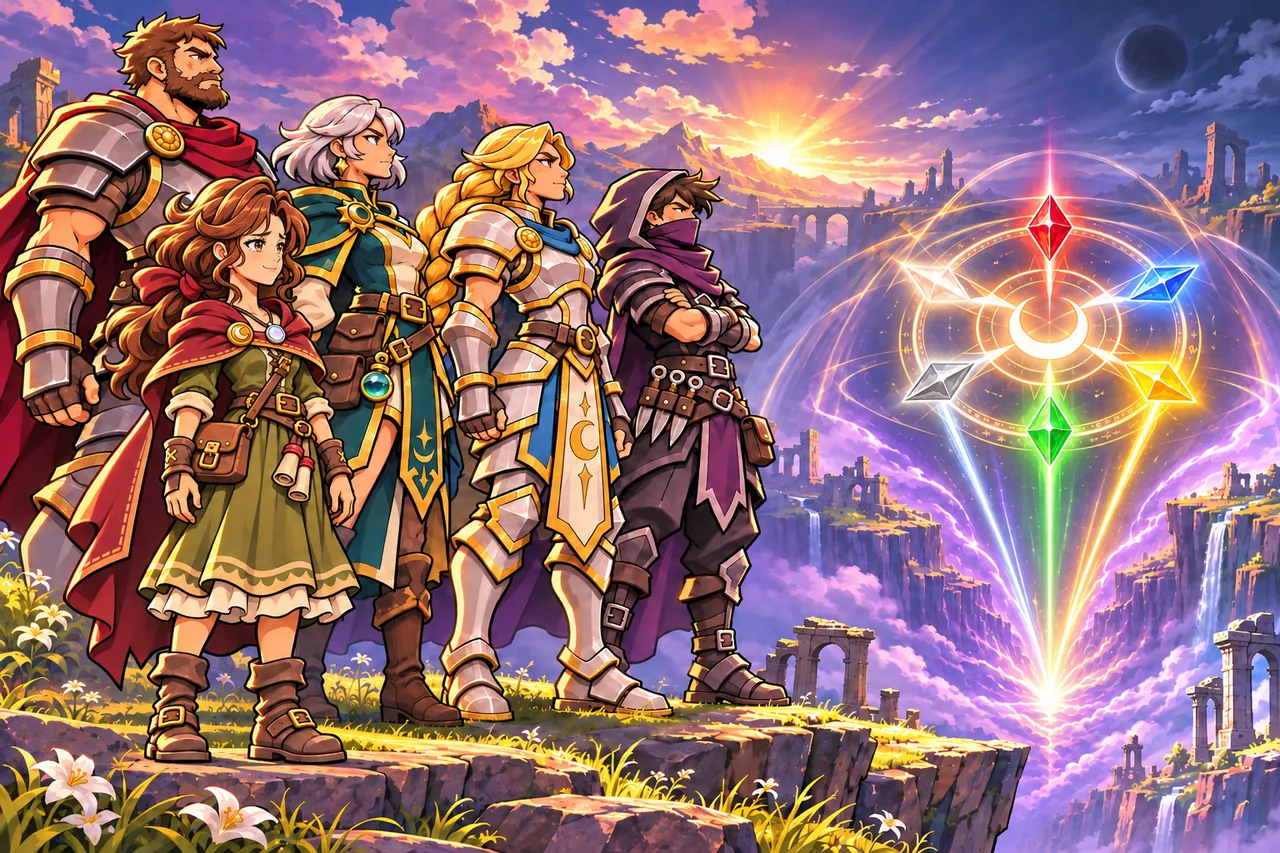
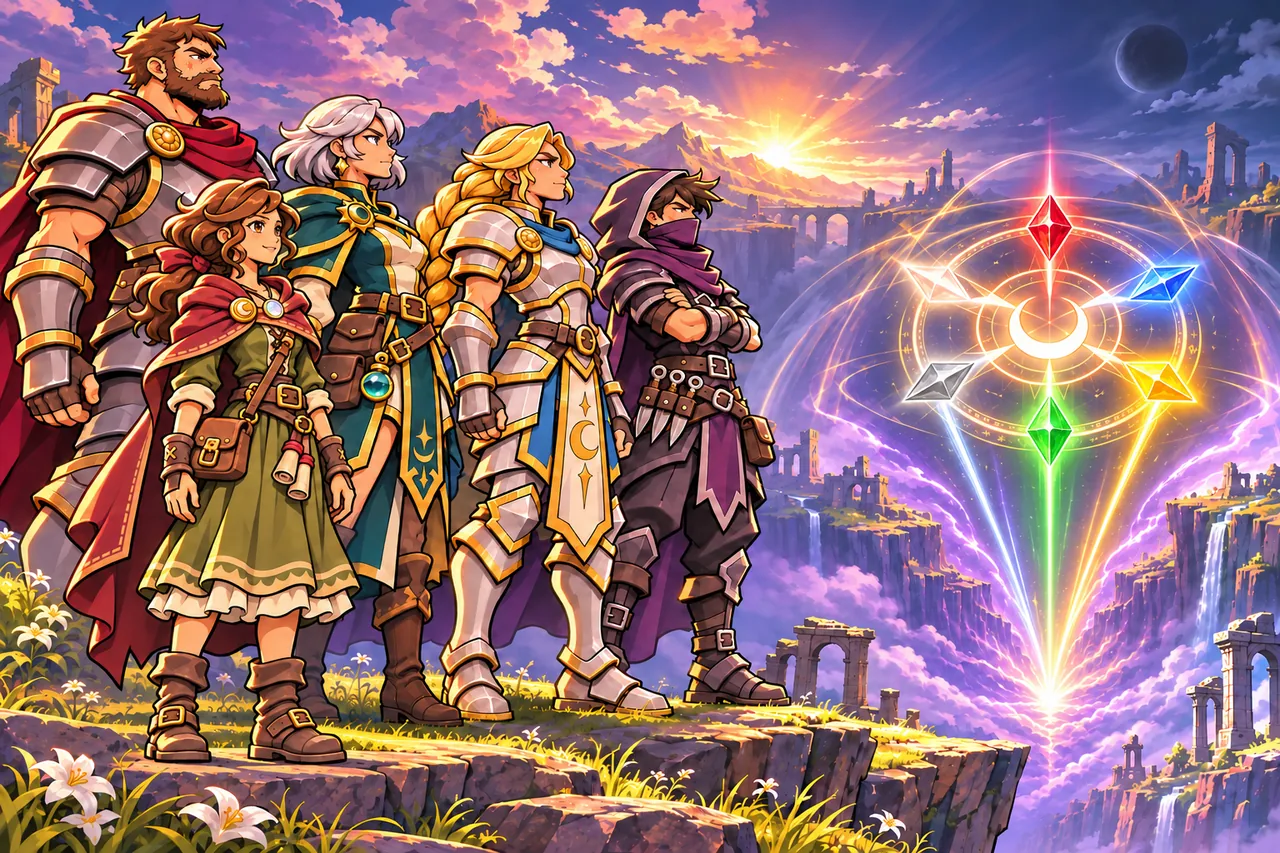
블랙문: 리세 비율 다듬은 이야기 그림 3장(봉인 엔딩·진 엔딩·진 엔딩 마지막)

diff --git a/prototype/seventhmoon/index.html b/prototype/seventhmoon/index.html
@@ -13,48 +13,48 @@
 </head>
 <body>
 <div id="game"></div>
-<script src="lib/phaser.min.js?v=1795354593"></script>
-<script src="js/sfx.js?v=1795354593"></script>
-<script src="js/rig.js?v=1795354593"></script>
-<script src="js/rigs2.js?v=1795354593"></script>
-<script src="js/anims.js?v=1795354593"></script>
-<script src="js/anims2.js?v=1795354593"></script>
-<script src="js/anims3.js?v=1795354593"></script>
-<script src="js/warrior-motion.js?v=1795354593"></script>
-<script src="js/data/db.js?v=1795354593"></script>
-<script src="js/data/campaign.js?v=1795354593"></script>
-<script src="js/data/expansion.js?v=1795354593"></script>
-<script src="js/data/story.js?v=1795354593"></script>
-<script src="js/settings.js?v=1795354593"></script>
-<script src="js/save.js?v=1795354593"></script>
-<script src="js/actors.js?v=1795354593"></script>
-<script src="js/classes.js?v=1795354593"></script>
-<script src="js/hero-motion.js?v=1795354593"></script>
-<script src="js/skill-motion.js?v=1795354593"></script>
-<script src="js/data/cute-atlas.js?v=1795354593"></script>
-<script src="js/cute-hero-parts.js?v=1795354593"></script>
-<script src="js/harvan-cute-parts.js?v=1795354593"></script>
-<script src="js/cute-heroes.js?v=1795354593"></script>
-<script src="js/hero-gear.js?v=1795354593"></script>
-<script src="js/boss-gimmicks.js?v=1795354593"></script>
-<script src="js/gear-fx.js?v=1795354593"></script>
-<script src="js/stage-events.js?v=1795354593"></script>
-<script src="js/data/story2.js?v=1795354593"></script>
-<script src="js/monet.js?v=1795354593"></script>
-<script src="js/data/monrigs.js?v=1795354593"></script>
-<script src="js/data/monrigs_p2.js?v=1795354593"></script>
-<script src="js/enemy-signatures.js?v=1795354593"></script>
-<script src="js/enemy-motion.js?v=1795354593"></script>
-<script src="js/ally.js?v=1795354593"></script>
-<script src="js/summons.js?v=1795354593"></script>
-<script src="js/movelist.js?v=1795354593"></script>
-<script src="js/tower.js?v=1795354593"></script>
-<script src="js/assets.js?v=1795354593"></script>
-<script src="js/ui.js?v=1795354593"></script>
-<script src="js/data/title.js?v=1795354593"></script>
-<script src="js/scenes.js?v=1795354593"></script>
-<script src="js/codex.js?v=1795354593"></script>
-<script src="js/game.js?v=1795354593"></script>
-<script src="js/diag.js?v=1795354593"></script>
+<script src="lib/phaser.min.js?v=1795355695"></script>
+<script src="js/sfx.js?v=1795355695"></script>
+<script src="js/rig.js?v=1795355695"></script>
+<script src="js/rigs2.js?v=1795355695"></script>
+<script src="js/anims.js?v=1795355695"></script>
+<script src="js/anims2.js?v=1795355695"></script>
+<script src="js/anims3.js?v=1795355695"></script>
+<script src="js/warrior-motion.js?v=1795355695"></script>
+<script src="js/data/db.js?v=1795355695"></script>
+<script src="js/data/campaign.js?v=1795355695"></script>
+<script src="js/data/expansion.js?v=1795355695"></script>
+<script src="js/data/story.js?v=1795355695"></script>
+<script src="js/settings.js?v=1795355695"></script>
+<script src="js/save.js?v=1795355695"></script>
+<script src="js/actors.js?v=1795355695"></script>
+<script src="js/classes.js?v=1795355695"></script>
+<script src="js/hero-motion.js?v=1795355695"></script>
+<script src="js/skill-motion.js?v=1795355695"></script>
+<script src="js/data/cute-atlas.js?v=1795355695"></script>
+<script src="js/cute-hero-parts.js?v=1795355695"></script>
+<script src="js/harvan-cute-parts.js?v=1795355695"></script>
+<script src="js/cute-heroes.js?v=1795355695"></script>
+<script src="js/hero-gear.js?v=1795355695"></script>
+<script src="js/boss-gimmicks.js?v=1795355695"></script>
+<script src="js/gear-fx.js?v=1795355695"></script>
+<script src="js/stage-events.js?v=1795355695"></script>
+<script src="js/data/story2.js?v=1795355695"></script>
+<script src="js/monet.js?v=1795355695"></script>
+<script src="js/data/monrigs.js?v=1795355695"></script>
+<script src="js/data/monrigs_p2.js?v=1795355695"></script>
+<script src="js/enemy-signatures.js?v=1795355695"></script>
+<script src="js/enemy-motion.js?v=1795355695"></script>
+<script src="js/ally.js?v=1795355695"></script>
+<script src="js/summons.js?v=1795355695"></script>
+<script src="js/movelist.js?v=1795355695"></script>
+<script src="js/tower.js?v=1795355695"></script>
+<script src="js/assets.js?v=1795355695"></script>
+<script src="js/ui.js?v=1795355695"></script>
+<script src="js/data/title.js?v=1795355695"></script>
+<script src="js/scenes.js?v=1795355695"></script>
+<script src="js/codex.js?v=1795355695"></script>
+<script src="js/game.js?v=1795355695"></script>
+<script src="js/diag.js?v=1795355695"></script>
 </body>
 </html>
